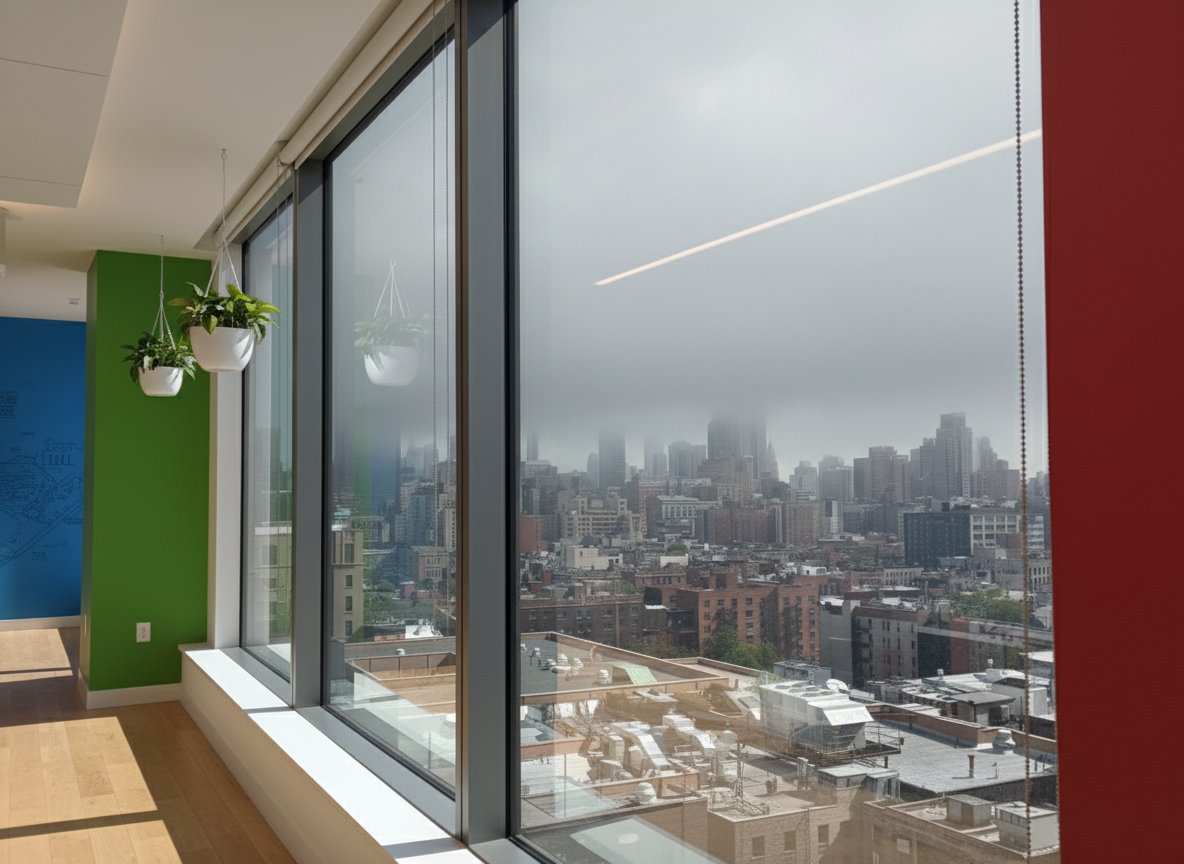
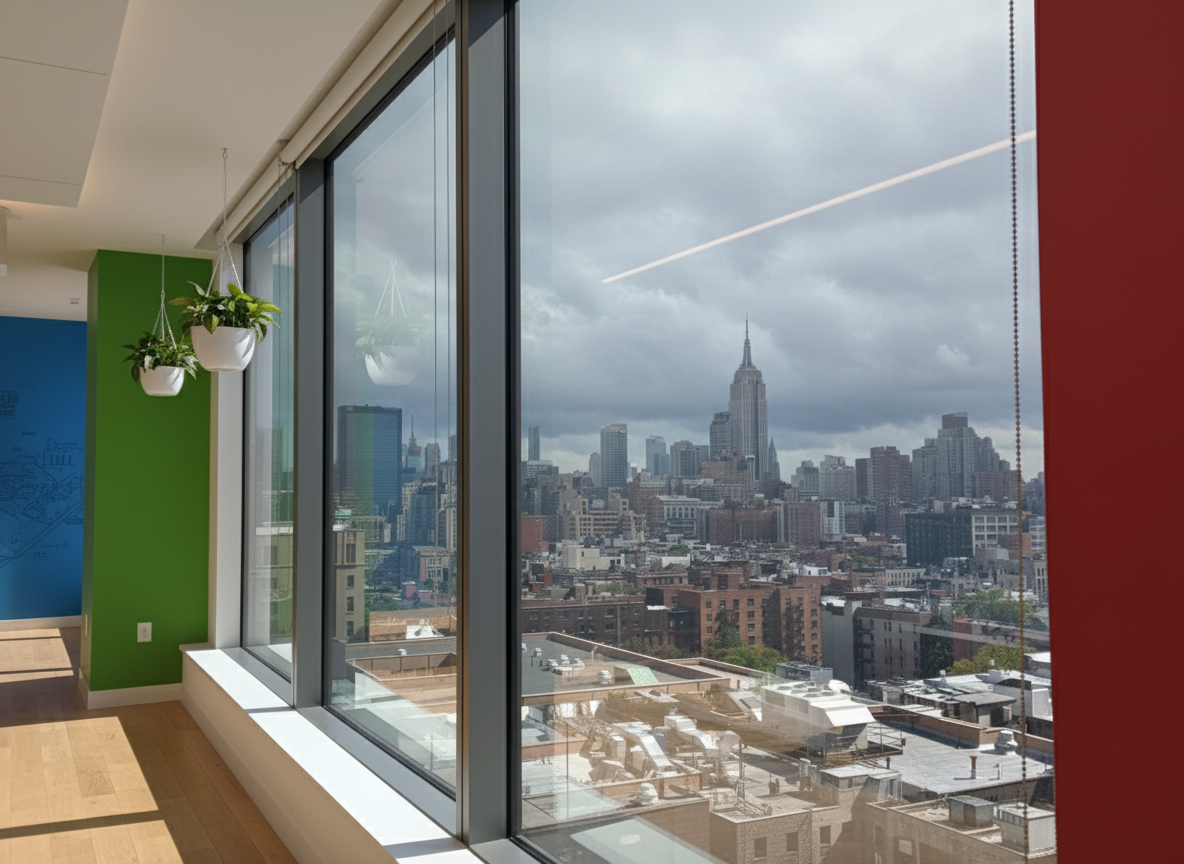
Update current virtual office image

diff --git a/index.html b/index.html
@@ -33,7 +33,7 @@
   </style>
 </head>
 <body>
-  <img src="./virtual-office-current.png?v=1777485632" alt="Current virtual office weather image">
-  <div class="stamp">Last updated: 2026-04-29 11:00 PDT</div>
+  <img src="./virtual-office-current.png?v=1777568286" alt="Current virtual office weather image">
+  <div class="stamp">Last updated: 2026-04-30 09:58 PDT</div>
 </body>
 </html>
